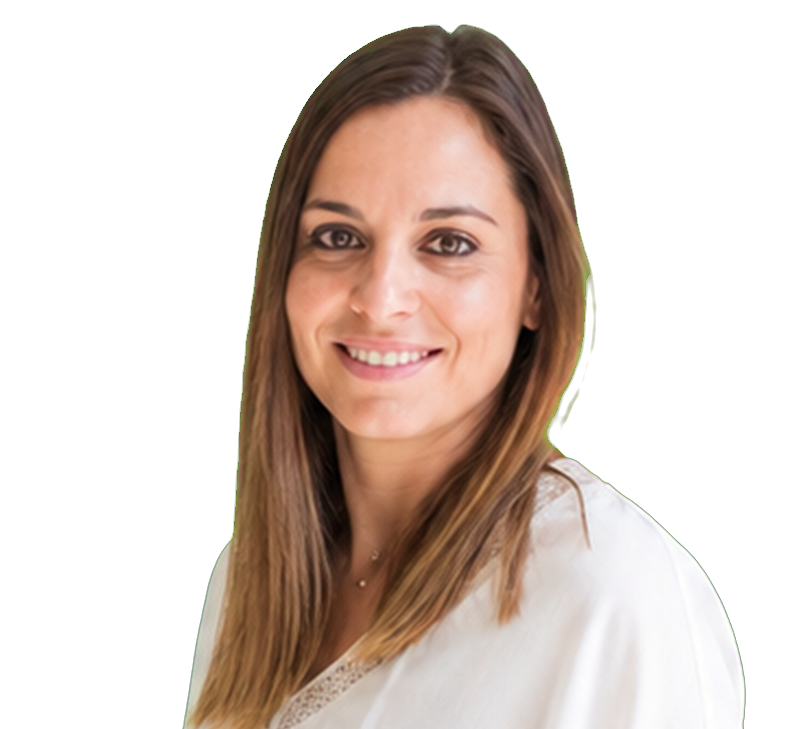
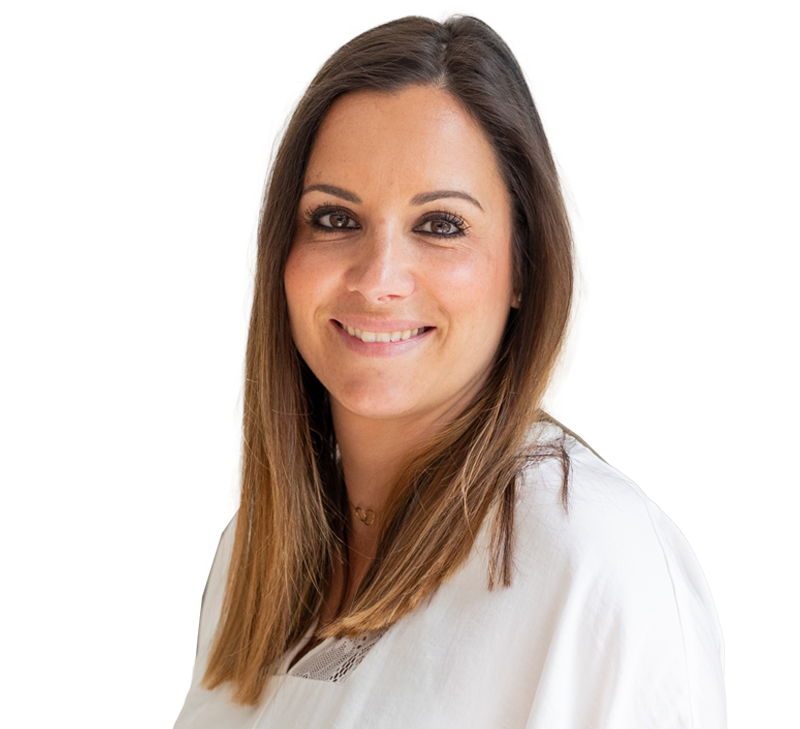
Caroline 12/06 batch: photos, contact dropdown, blog order, form UX, email RGPD
- Merge Lilanga's corrected Alexandra Lopez & Anaïs Barotto headshots.
- Contact page: remove redundant 'déclarer une urgence' dropdown option.
- Blog: move 'Parcourir par sujet' below 'Les derniers articles'.
- Annonce contact form: clear inline message + scroll when the RGPD consent
  box is unchecked (the 'had to click twice' confusion; one click works once
  consent is ticked).
- Auto-reply/notification emails: compact RGPD block (9px, single paragraph,
  minimal space).

Changed region(s): [[0.2188, 0.0, 0.8125, 1.0], [0.4062, 0.9959, 0.4375, 1.0]]

diff --git a/workers/email/index.ts b/workers/email/index.ts
@@ -177,14 +177,11 @@ function buildCustomerEmail(vars: { prénom?: string; bodyHtml?: string; signoff
 
         </td></tr>
 
-        <!-- RGPD notice -->
-        <tr><td style="background-color:#ffffff;padding:0 32px 24px">
-          <hr style="border:none;border-top:1px solid #eef3ef;margin:0 0 16px">
-          <p style="margin:0;font-size:11px;color:#999;line-height:1.5">
-            Dans le cadre de nos activités, nous traitons les données à caractère personnel de nos clients, prospects, salariés, dans le respect des règles posées par le Règlement général sur les données personnelles (RGPD) et par la loi n°78-17 du 6 janvier 1978 relative à l'informatique, aux fichiers et aux libertés. Vous pouvez accéder aux informations relatives aux traitements de vos données personnelles ainsi qu'à vos droits en consultant notre politique de traitements des données personnelles sur la page suivante&nbsp;: <a href="${RGPD_URL}" style="color:#999;text-decoration:underline">${RGPD_URL}</a>. Vous pouvez vous opposer à ce que vos données soient utilisées par notre agence à des fins de prospection commerciale en contactant l'Immobilière Pujol au <a href="tel:0762203313" style="color:#999;text-decoration:underline">07&nbsp;62&nbsp;20&nbsp;33&nbsp;13</a> ou par mail&nbsp;: <a href="mailto:rgpd@immobiliere-pujol.fr" style="color:#999;text-decoration:underline">rgpd@immobiliere-pujol.fr</a>
-          </p>
-          <p style="margin:8px 0 0;font-size:11px;color:#999;line-height:1.5">
-            Si vous êtes un fournisseur, pour mener à bien l'ordre de service ci-dessus défini, l'Immobilière Pujol vous transmet des informations qui peuvent contenir des données à caractère personnel. Il vous incombe de respecter le droit en vigueur en matière de protection des données personnelles à l'occasion du traitement de données personnelles que vous allez réaliser en qualité de responsable de traitement.
+        <!-- RGPD notice — compact (Caroline 12/06: minimal space) -->
+        <tr><td style="background-color:#ffffff;padding:0 32px 14px">
+          <hr style="border:none;border-top:1px solid #eef3ef;margin:0 0 8px">
+          <p style="margin:0;font-size:9px;color:#aaa;line-height:1.3">
+            Dans le cadre de nos activités, nous traitons les données à caractère personnel de nos clients, prospects, salariés, dans le respect du Règlement général sur les données personnelles (RGPD) et de la loi n°78-17 du 6 janvier 1978. Vous pouvez accéder aux informations relatives aux traitements de vos données et à vos droits via notre <a href="${RGPD_URL}" style="color:#aaa;text-decoration:underline">politique de traitement des données</a>. Vous pouvez vous opposer à l'utilisation de vos données à des fins de prospection en contactant l'Immobilière Pujol au <a href="tel:0762203313" style="color:#aaa;text-decoration:underline">07&nbsp;62&nbsp;20&nbsp;33&nbsp;13</a> ou à <a href="mailto:rgpd@immobiliere-pujol.fr" style="color:#aaa;text-decoration:underline">rgpd@immobiliere-pujol.fr</a>.
           </p>
         </td></tr>
 
@@ -316,14 +313,11 @@ function buildTable(subject: string, rows: [string, string][]): string {
 
         </td></tr>
 
-        <!-- RGPD notice -->
-        <tr><td style="background-color:#ffffff;padding:0 32px 24px">
-          <hr style="border:none;border-top:1px solid #eef3ef;margin:0 0 16px">
-          <p style="margin:0;font-size:11px;color:#999;line-height:1.5">
-            Dans le cadre de nos activités, nous traitons les données à caractère personnel de nos clients, prospects, salariés, dans le respect des règles posées par le Règlement général sur les données personnelles (RGPD) et par la loi n°78-17 du 6 janvier 1978 relative à l'informatique, aux fichiers et aux libertés. Vous pouvez accéder aux informations relatives aux traitements de vos données personnelles ainsi qu'à vos droits en consultant notre politique de traitements des données personnelles sur la page suivante&nbsp;: <a href="${RGPD_URL}" style="color:#999;text-decoration:underline">${RGPD_URL}</a>. Vous pouvez vous opposer à ce que vos données soient utilisées par notre agence à des fins de prospection commerciale en contactant l'Immobilière Pujol au <a href="tel:0762203313" style="color:#999;text-decoration:underline">07&nbsp;62&nbsp;20&nbsp;33&nbsp;13</a> ou par mail&nbsp;: <a href="mailto:rgpd@immobiliere-pujol.fr" style="color:#999;text-decoration:underline">rgpd@immobiliere-pujol.fr</a>
-          </p>
-          <p style="margin:8px 0 0;font-size:11px;color:#999;line-height:1.5">
-            Si vous êtes un fournisseur, pour mener à bien l'ordre de service ci-dessus défini, l'Immobilière Pujol vous transmet des informations qui peuvent contenir des données à caractère personnel. Il vous incombe de respecter le droit en vigueur en matière de protection des données personnelles à l'occasion du traitement de données personnelles que vous allez réaliser en qualité de responsable de traitement.
+        <!-- RGPD notice — compact (Caroline 12/06: minimal space) -->
+        <tr><td style="background-color:#ffffff;padding:0 32px 14px">
+          <hr style="border:none;border-top:1px solid #eef3ef;margin:0 0 8px">
+          <p style="margin:0;font-size:9px;color:#aaa;line-height:1.3">
+            Dans le cadre de nos activités, nous traitons les données à caractère personnel de nos clients, prospects, salariés, dans le respect du Règlement général sur les données personnelles (RGPD) et de la loi n°78-17 du 6 janvier 1978. Vous pouvez accéder aux informations relatives aux traitements de vos données et à vos droits via notre <a href="${RGPD_URL}" style="color:#aaa;text-decoration:underline">politique de traitement des données</a>. Vous pouvez vous opposer à l'utilisation de vos données à des fins de prospection en contactant l'Immobilière Pujol au <a href="tel:0762203313" style="color:#aaa;text-decoration:underline">07&nbsp;62&nbsp;20&nbsp;33&nbsp;13</a> ou à <a href="mailto:rgpd@immobiliere-pujol.fr" style="color:#aaa;text-decoration:underline">rgpd@immobiliere-pujol.fr</a>.
           </p>
         </td></tr>
 
